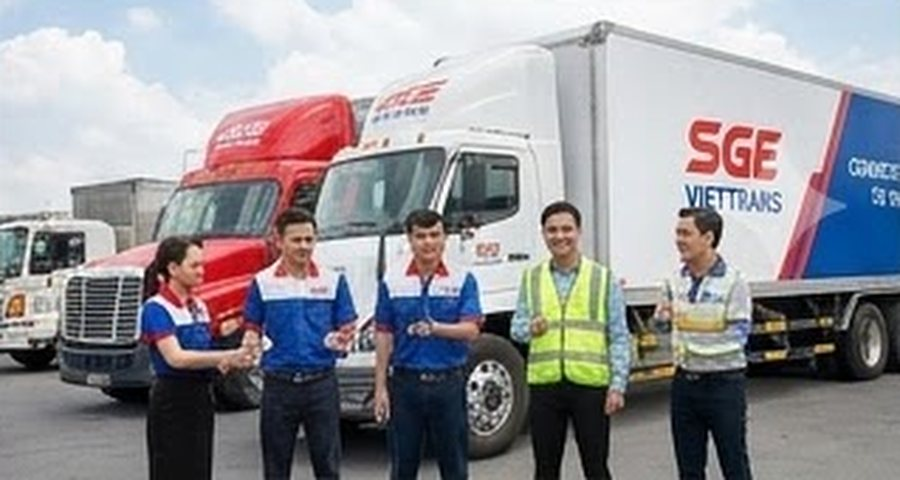
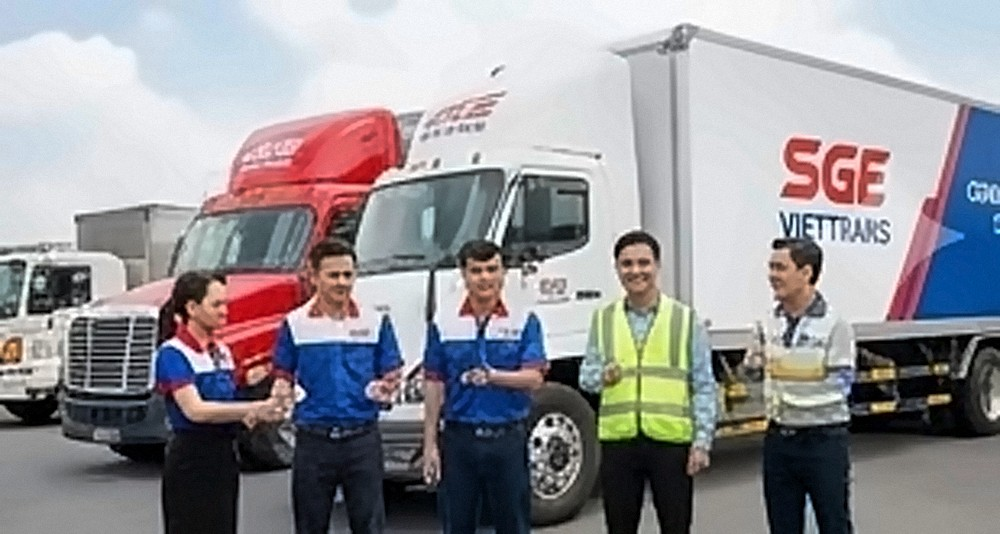
Làm nét ảnh đội ngũ, cắt sát viền ảnh
Claude-Session: https://claude.ai/code/session_01H6mKPPRQDBdKkLAjprgmb2

diff --git a/index.html b/index.html
@@ -475,7 +475,7 @@ footer .f-legal{display:flex;flex-wrap:wrap;justify-content:space-between;gap:.7
       </ul>
     </div>
     <figure>
-      <img src="assets/team.jpg" width="900" height="480" alt="Năm nhân viên SGE Viettrans đứng cạnh xe tải thùng tại bãi xe" loading="lazy" decoding="async">
+      <img src="assets/team.jpg" width="1000" height="534" alt="Năm nhân viên SGE Viettrans đứng cạnh xe tải thùng tại bãi xe" loading="lazy" decoding="async">
     </figure>
   </div>
 </section>
